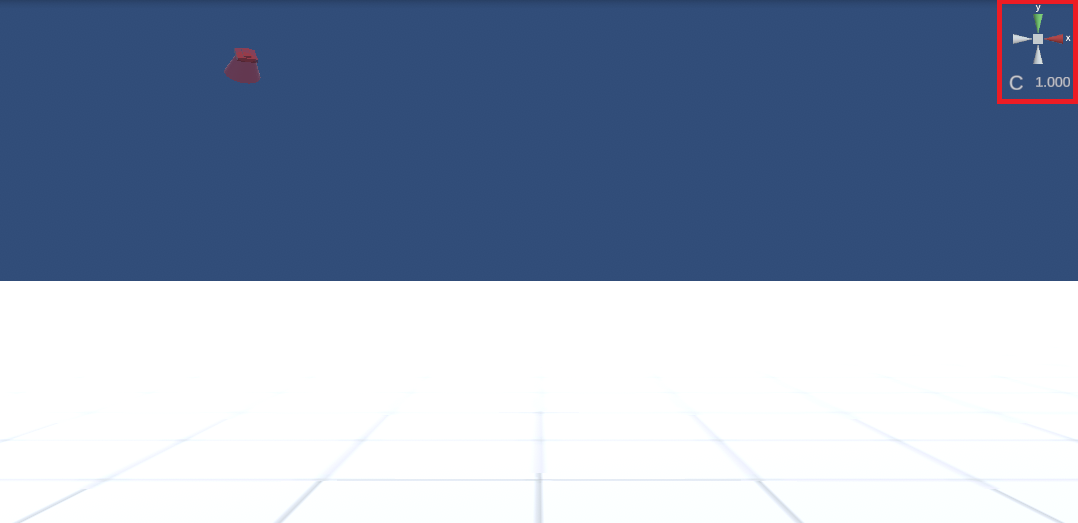
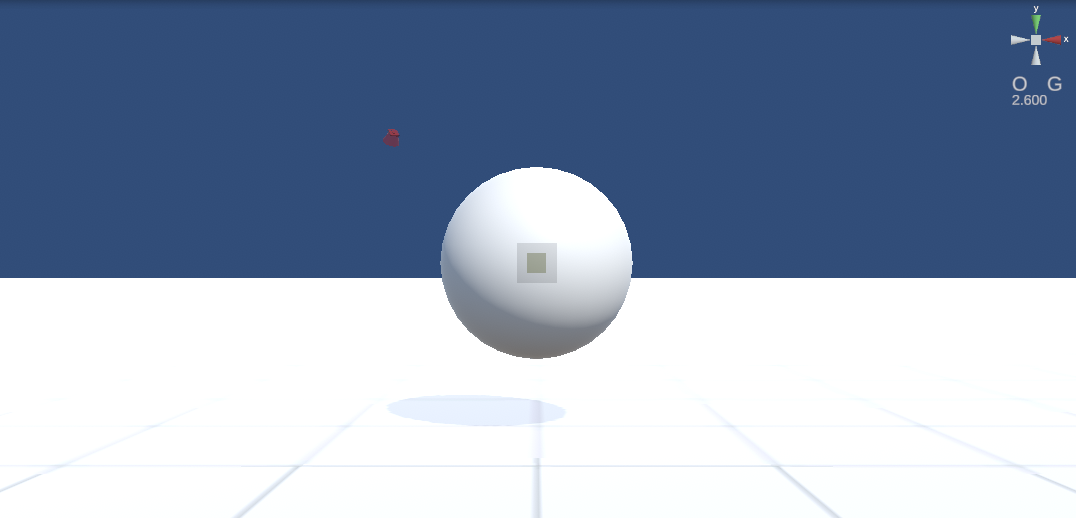
9/18夜時点
ver 1.1.0

diff --git a/docs/source/man5/special_operation.rst b/docs/source/man5/special_operation.rst
@@ -3,6 +3,8 @@
 #########################################
 
 
+.. contents::
+
 .. index:: キーボードでの操作
 
 キーボードでの操作
@@ -29,6 +31,8 @@
     Q,カメラのZ軸による回転を元に戻す
     M,カメラ←→現在オブジェクト操作の切り替え
     R,カメラと中心点のリセット
+    I,カメラと中心点の距離を離す
+    O,カメラと中心点の距離を近づける
     Ctrl,マウスの左クリックと一緒に押したままマウスを動かして回転
     SPACE,マウスの左クリックと一緒に押したままマウスを動かして移動
 
@@ -40,18 +44,18 @@
 .. csv-table::
 
     キー,  操作
-    W, 前進
+    W,前進
     S,後退
     A,左移動
     D,右移動
     F,上に移動
     V,下に移動
-    Shift + W,上へ回転(X軸による回転)
-    Shift + S,下へ回転(X軸による回転)
-    Shift + A,左へ回転(Z軸による回転)
-    Shift + D,右へ回転(Z軸による回転)
-    Shift + F,左を向く(Y軸による回転)
-    Shift + V,右を向く(Y軸による回転)
+    Shift + W,前方へ回転
+    Shift + S,後方へ回転
+    Shift + A,左を向く
+    Shift + D,右を向く
+    Shift + F,左方へ回転
+    Shift + V,右方へ回転
     Q,IKの回転を0に戻す
     G,グローバル・ローカル切り替え
     M,カメラ←→現在オブジェクト操作の切り替え
@@ -67,4 +71,46 @@
     Shift + Z,IKの移動・回転をもとに戻す
     Shift + Y,IKの移動・回転をやり直す
 
+.. index:: メインカメラの操作
+
+メインカメラの操作
+=========================
+
+　本アプリではメインカメラには必ず回転軸となる中心点が存在します。設定により表示をオンオフ切り替えられますが、初期設定ではわかりやすさのため表示をオンにしています。
+
+.. image:: img/spcl_01.png
+    :align: center
+    :alt: 中心点
+
+|
+
+　薄暗い半透明で表示される■が該当します。
+
+　メインカメラはこの中心点を基準にして回転します。見たいオブジェクトを中心点に近づければ、そのオブジェクトを360度眺めることができます。
+
+　ただ、カメラの移動やオブジェクトの移動をし続けていると必ずしも距離や位置が一致せずにだんだん表示がズレていくことがあります。そういうときはキーボードの ``Iキー`` または ``Oキー`` を押してください。
+
+　すると中心点がメインカメラに向かって近づいたり離れたりします。
+
+
+**中心点とオブジェクトの距離**
+
+　中心点と現在選択中のオブジェクトの距離は右上に表示されます。
+
+.. image:: img/spcl_02.png
+    :align: center
+    :alt: 中心点とオブジェクトの距離
+
+|
+
+　あくまで目安です。IとOキーを押していると数値が減っていくのと増える境目があります。そこが中心点と現在選択中のオブジェクトが重なっている点です。そこでカメラを回転すれば比較的きれいにオブジェクトの周囲を回転することができます。
+
+
+**移動・回転しすぎて中心点が吹っ飛んだら**
+
+　移動や回転、WebGL画面の右上の軸の変更をすると中心点がずれることがあります。そういうときはキーボード操作がカメラモードのときに ``Rキー`` を押してください。するとメインカメラと中心点が初期位置にリセットされます。
+
+.. hint::
+
+    リボンバーの画面タブの ``カメラをリセット`` ボタンでも同様です。
 

diff --git a/docs/source/man1/screen_webgl.rst b/docs/source/man1/screen_webgl.rst
@@ -9,10 +9,13 @@ WebGL画面
 
 
 :右上:
-    .. csv-table::
-
-        上,メインカメラの表示をX軸・Y軸・Z軸の向きの変更
-        下,現在のキーボード操作のモード(C - カメラ、O - オブジェクト)、カメラ前の中心点と選択中のオブジェクトとの距離
+    
+    == =======
+    上 メインカメラの表示をX軸・Y軸・Z軸の向きの変更
+    中 | 現在のキーボード操作のモード（C - カメラ、O - オブジェクト）
+       オブジェクトの操作時のグローバル・ローカル基準（G - グローバル、L - ローカル）
+    下 カメラ前の中心点と選択中のオブジェクトとの距離
+    == =======
 
 :全体:
     VRMやその他オブジェクトが表示される画面。これがメインカメラの映像。

diff --git a/docs/source/man2/operation_initial.rst b/docs/source/man2/operation_initial.rst
@@ -202,6 +202,10 @@ VRMの場合
 
 |
 
+.. index::
+    移動・回転・倍率
+    キーボードによる操作
+
 3Dオブジェクト
 ---------------------
 
@@ -210,6 +214,9 @@ VRMの場合
     同様の操作方法として、IKマーカーをクリックして表示される操作ハンドルもあります。
 
     キーボード操作にも対応しています。詳しい操作方法は :doc:`../man5/special_operation` をご覧ください。
+
+    .. warning::
+        キーボード操作できるオブジェクトの種類は3Dオブジェクトのみです。 ``Text`` と ``UImage`` はキーボード操作 **対象外** です。
 
     **倍率について**
 
